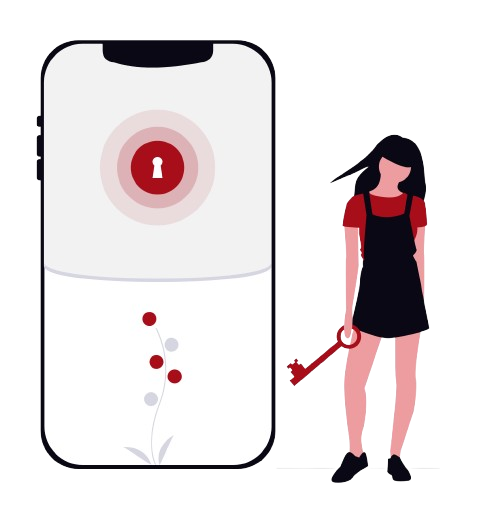
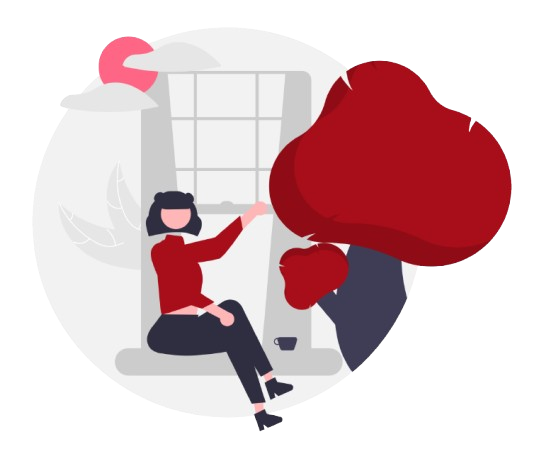
Upgarde

diff --git a/lib/Signin_screen.dart b/lib/Signin_screen.dart
@@ -1,4 +1,6 @@
 import 'package:flutter/material.dart';
+import 'package:flutter_screenutil_plus/flutter_screenutil_plus.dart';
+import 'package:movie_max/Home_screen.dart';
 
 class SigninScreen extends StatefulWidget {
   const SigninScreen({super.key});
@@ -9,8 +11,202 @@ class SigninScreen extends StatefulWidget {
 }
 
 class _SigninScreenState extends State<SigninScreen> {
+  final _formKey = GlobalKey<FormState>();
+  final TextEditingController _emailController = TextEditingController();
+  final TextEditingController _passwordController = TextEditingController();
+
+  @override
+  void dispose() {
+    _passwordController.dispose();
+    _emailController.dispose();
+    super.dispose();
+  }
+
+  bool _rememberMe = false;
+
   @override
   Widget build(BuildContext context) {
-    return Container();
+    return Scaffold(
+      backgroundColor: Colors.black,
+      body: SafeArea(
+        child: SingleChildScrollView(
+          padding: EdgeInsets.symmetric(horizontal: 24.w),
+          child: Column(
+            crossAxisAlignment: CrossAxisAlignment.center,
+            children: [
+              // Back Button Row
+              Row(
+                children: [
+                  IconButton(
+                    onPressed: () {
+                      Navigator.pop(context);
+                    },
+                    icon: Container(
+                      width: 40.w,
+                      height: 40.h,
+                      decoration: BoxDecoration(
+                        color: Colors.white.withOpacity(0.2),
+                        shape: BoxShape.circle,
+                      ),
+                      child: const Icon(
+                        Icons.arrow_back_ios_new,
+                        color: Colors.white,
+                      ),
+                    ),
+                  ),
+                ],
+              ),
+
+              SizedBox(height: 20.h),
+
+              // Logo
+              SizedBox(
+                width: 300.w,
+                height: 130.h,
+                child: Image.asset("asset/images/movie_max_logo.png"),
+              ),
+
+              SizedBox(height: 10.h),
+
+              // Title
+              Text(
+                "Create Your Account",
+                textAlign: TextAlign.center,
+                style: TextStyle(
+                  fontSize: 24.sp,
+                  fontWeight: FontWeight.bold,
+                  color: Colors.white,
+                ),
+              ),
+
+              SizedBox(height: 20.h),
+
+              // Form
+              Form(
+                key: _formKey,
+                child: Column(
+                  children: [
+                    TextFormField(
+                      controller: _emailController,
+                      style: const TextStyle(color: Colors.white),
+                      decoration: InputDecoration(
+                        hintText: 'Enter your email',
+                        prefixIcon: const Icon(
+                          Icons.email,
+                          color: Colors.white,
+                        ),
+                        labelText: 'Email',
+                        labelStyle: const TextStyle(color: Colors.white),
+                        enabledBorder: OutlineInputBorder(
+                          borderSide: const BorderSide(color: Colors.white),
+                          borderRadius: BorderRadius.circular(9.0),
+                        ),
+                        focusedBorder: const OutlineInputBorder(
+                          borderSide: BorderSide(color: Colors.blue),
+                        ),
+                      ),
+                      validator: (value) {
+                        if (value == null || value.isEmpty) {
+                          return 'Please enter your email';
+                        }
+                        return null;
+                      },
+                    ),
+
+                    SizedBox(height: 20.h),
+
+                    TextFormField(
+                      controller: _passwordController,
+                      obscureText: true,
+                      style: const TextStyle(color: Colors.white),
+                      decoration: InputDecoration(
+                        hintText: 'Enter your password',
+                        prefixIcon: const Icon(Icons.lock, color: Colors.white),
+                        labelText: 'Password',
+                        labelStyle: const TextStyle(color: Colors.white),
+                        enabledBorder: OutlineInputBorder(
+                          borderSide: const BorderSide(color: Colors.white),
+                          borderRadius: BorderRadius.circular(9.0),
+                        ),
+                        focusedBorder: const OutlineInputBorder(
+                          borderSide: BorderSide(color: Colors.blue),
+                        ),
+                      ),
+                      validator: (value) {
+                        if (value == null || value.isEmpty) {
+                          return 'Please enter your password';
+                        }
+                        return null;
+                      },
+                    ),
+                  ],
+                ),
+              ),
+
+              SizedBox(height: 10.h),
+
+              // Remember Me Checkbox
+              // Remember Me Checkbox (Aligned with text fields)
+              Padding(
+                padding: EdgeInsets.symmetric(horizontal: 4.w),
+                child: Row(
+                  children: [
+                    SizedBox(
+                      height: 24.h,
+                      width: 24.w,
+                      child: Checkbox(
+                        value: _rememberMe,
+                        activeColor: Colors.red.shade900,
+                        onChanged: (value) {
+                          setState(() {
+                            _rememberMe = value!;
+                          });
+                        },
+                      ),
+                    ),
+                    SizedBox(width: 8.w),
+                    Text(
+                      'Remember me',
+                      style: TextStyle(color: Colors.white, fontSize: 14.sp),
+                    ),
+                  ],
+                ),
+              ),
+
+              SizedBox(height: 20.h),
+
+              SizedBox(
+                width: 250.w,
+                height: 50.h,
+                child: ElevatedButton(
+                  onPressed: () {
+                    if (_formKey.currentState!.validate()) {
+                      Navigator.push(
+                        context,
+                        MaterialPageRoute(
+                          builder: (context) => const HomeScreen(),
+                        ),
+                      );
+                    }
+                  },
+                  style: ElevatedButton.styleFrom(
+                    foregroundColor: Colors.white,
+                    backgroundColor: Colors.red.shade900,
+                    padding: EdgeInsets.symmetric(
+                      horizontal: 20.w,
+                      vertical: 12.h,
+                    ),
+                    shape: RoundedRectangleBorder(
+                      borderRadius: BorderRadius.circular(8.r),
+                    ),
+                  ),
+                  child: Text("Sign In ", style: TextStyle(fontSize: 16.sp)),
+                ),
+              ),
+            ],
+          ),
+        ),
+      ),
+    );
   }
 }

diff --git a/lib/Login_screen.dart b/lib/Login_screen.dart
@@ -23,20 +23,23 @@ class _Login_screenState extends State<Login_screen> {
             // Back button at top-left
             Row(
               children: [
-                IconButton(
-                  onPressed: () {
-                    Navigator.pop(context);
-                  },
-                  icon: Container(
-                    width: 40.w,
-                    height: 40.h,
-                    decoration: BoxDecoration(
-                      color: Colors.white.withOpacity(0.2),
-                      shape: BoxShape.circle,
-                    ),
-                    child: const Icon(
-                      Icons.arrow_back_ios_new,
-                      color: Colors.white,
+                Padding(
+                  padding: const EdgeInsets.only(left: 8.0),
+                  child: IconButton(
+                    onPressed: () {
+                      Navigator.pop(context);
+                    },
+                    icon: Container(
+                      width: 40.w,
+                      height: 40.h,
+                      decoration: BoxDecoration(
+                        color: Colors.white.withOpacity(0.2),
+                        shape: BoxShape.circle,
+                      ),
+                      child: const Icon(
+                        Icons.arrow_back_ios_new,
+                        color: Colors.white,
+                      ),
                     ),
                   ),
                 ),
@@ -44,10 +47,12 @@ class _Login_screenState extends State<Login_screen> {
             ),
 
             // Login artwork
-            SizedBox(
-              width: 500.w,
-              height: 200.h,
-              child: Image.asset("asset/images/login page art.png"),
+            Center(
+              child: SizedBox(
+                width: 300.w,
+                height: 150.h,
+                child: Image.asset("asset/images/login page art.png"),
+              ),
             ),
 
             SizedBox(height: 20.h),

diff --git a/lib/Home_screen.dart b/lib/Home_screen.dart
@@ -1,0 +1,16 @@
+import 'package:flutter/material.dart';
+
+class HomeScreen extends StatefulWidget {
+  const HomeScreen({super.key});
+
+  @override
+  // ignore: library_private_types_in_public_api
+  _HomeScreenState createState() => _HomeScreenState();
+}
+
+class _HomeScreenState extends State<HomeScreen> {
+  @override
+  Widget build(BuildContext context) {
+    return Container();
+  }
+}

diff --git a/lib/main.dart b/lib/main.dart
@@ -13,7 +13,7 @@ class movie_max extends StatelessWidget {
   @override
   Widget build(BuildContext context) {
     return ScreenUtilPlusInit(
-      designSize: const Size(375, 812),
+      designSize: const Size(360, 800),
       minTextAdapt: true,
       splitScreenMode: true,
 
